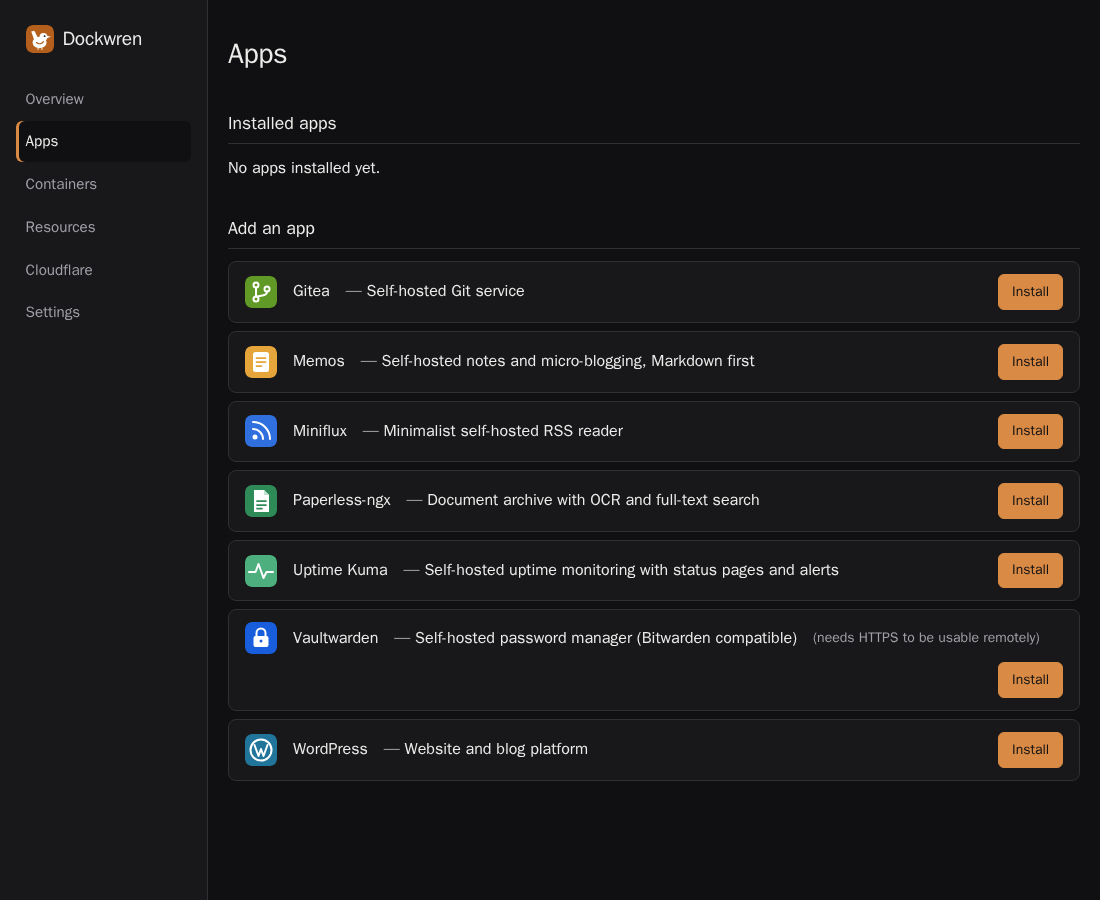
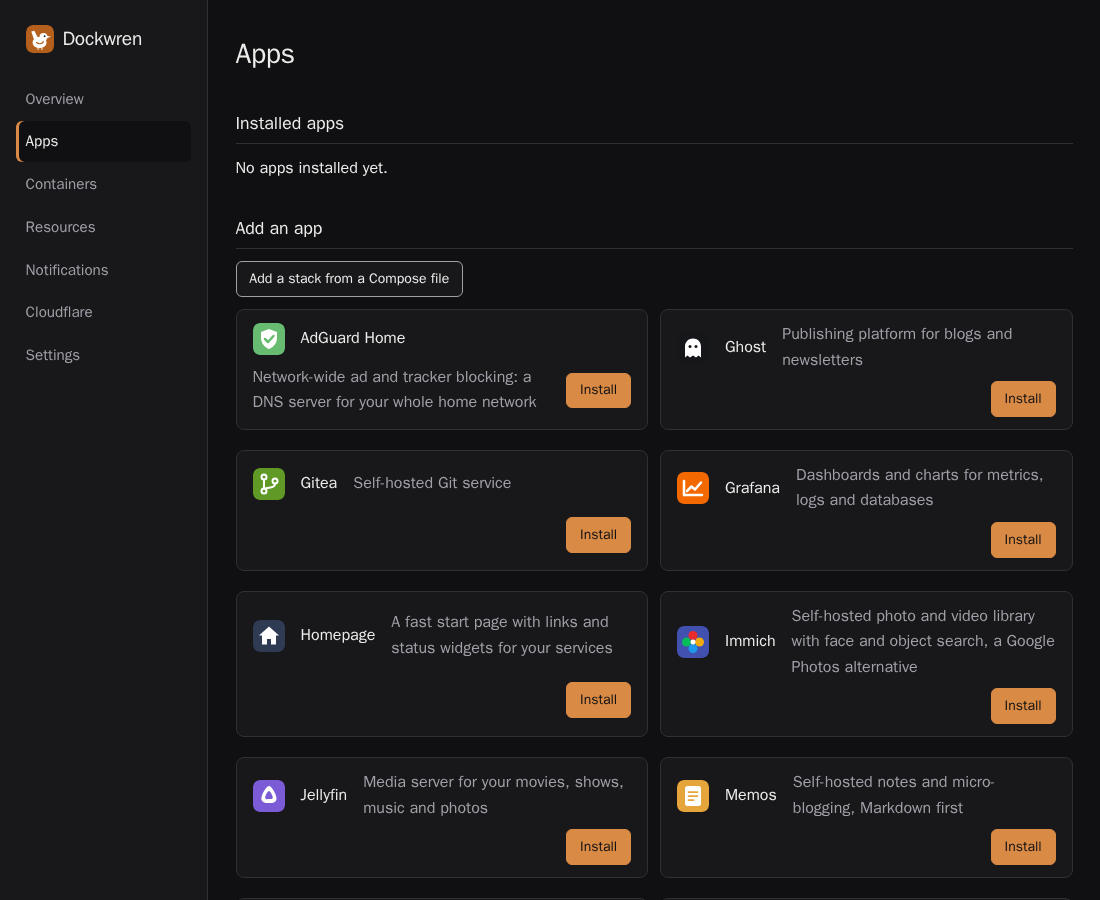
site: refresh app catalog screenshots

diff --git a/site/index.html b/site/index.html
@@ -117,7 +117,7 @@ footer a{color:var(--muted)}
 
     <div class="shot">
       <div class="frame">
-        <img class="light-only" src="shots/apps-light.png" alt="Dockwren app catalog with Gitea, Memos, Miniflux, Paperless-ngx, Uptime Kuma, Vaultwarden and WordPress" width="1100" height="900" loading="eager">
+        <img class="light-only" src="shots/apps-light.png" alt="Dockwren app catalog with AdGuard Home, Ghost, Gitea, Grafana, Homepage, Immich, Jellyfin and Memos" width="1100" height="900" loading="eager">
         <img class="dark-only" src="shots/apps-dark.png" alt="Dockwren app catalog, dark theme" width="1100" height="900" loading="eager">
       </div>
     </div>
